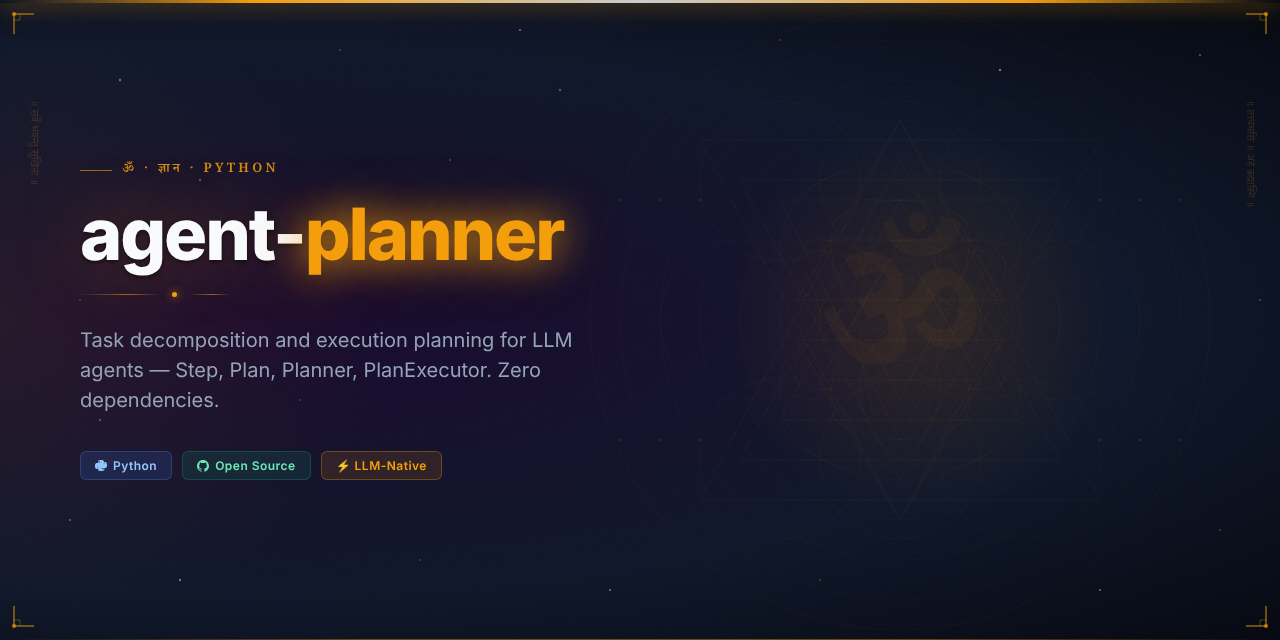
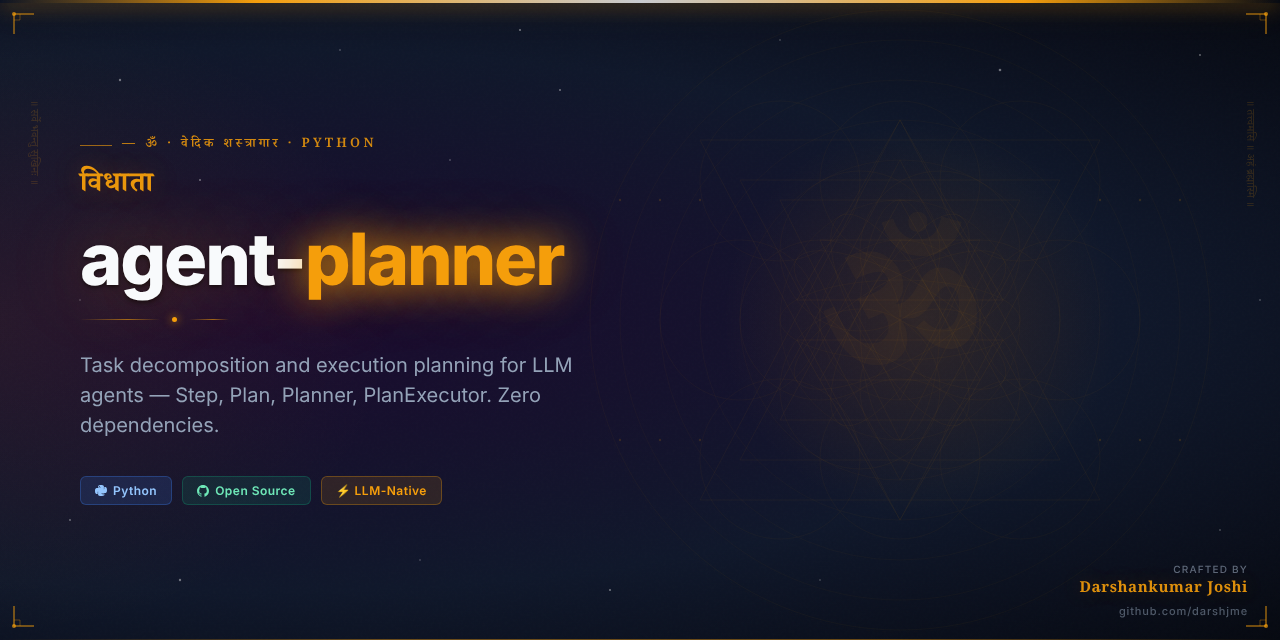
feat: add Vedic Arsenal hero image and updated README
Part of darshjme/arsenal — 100 production-grade Python libraries for LLM agents.
Vedic branding: ancient philosophy meets modern AI engineering.

diff --git a/README.md b/README.md
@@ -1,10 +1,12 @@
 <div align="center">
 
-<img src="assets/agent-planner-hero.png" alt="agent-planner — Vedic Arsenal" width="100%" />
+<img src="assets/agent-planner-hero.png" alt="agent-planner — Vedic Arsenal by Darshankumar Joshi" width="100%" />
 
 # ⚡ agent-planner
 
-### *विधाता* — Vidhata — the cosmic planner, architect of fate
+<h3><em>विधाता</em></h3>
+
+> *Vidhata — the cosmic planner, architect of fate*
 
 **Task decomposition and execution planning for LLM agents — Step, Plan, Planner, PlanExecutor. Zero dependencies.**
 
@@ -39,6 +41,19 @@ Or clone directly:
 git clone https://github.com/darshjme/agent-planner.git
 cd agent-planner
 pip install -e .
+```
+
+## How It Works
+
+```mermaid
+flowchart LR
+    A[Input] --> B[agent-planner]
+    B --> C{Process}
+    C -- Success --> D[Output]
+    C -- Error --> E[Handle / Retry]
+    E --> B
+    style B fill:#6b21a8,color:#fff
+    note["Planner — Zero Dependencies"]
 ```
 
 ## Quick Start
@@ -90,7 +105,7 @@ MIT — use freely, build freely.
 
 <div align="center">
 
-**Built with ⚡ by [Darshankumar Joshi](https://github.com/darshjme)**
+**Built with ⚡ by [Darshankumar Joshi](https://github.com/darshjme)** · [@thedarshanjoshi](https://twitter.com/thedarshanjoshi)
 
 *"कर्मण्येवाधिकारस्ते मा फलेषु कदाचन"*
 *Your right is to action alone, never to the fruits thereof.*
